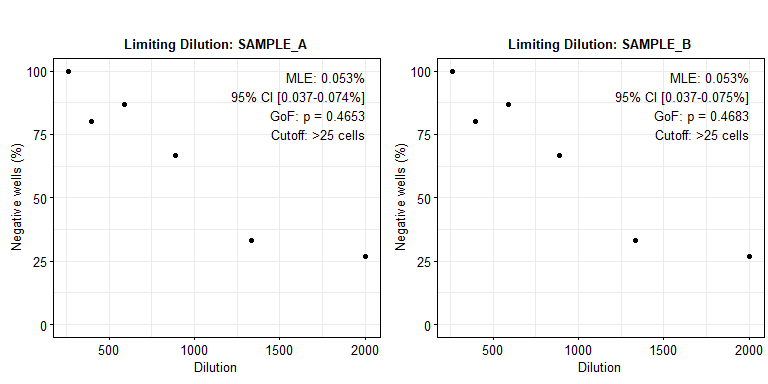
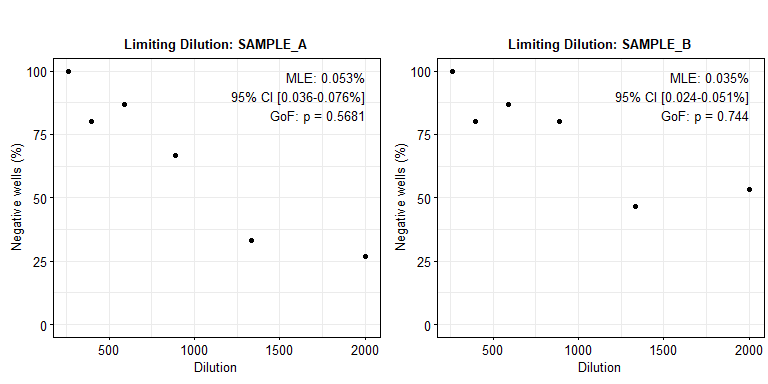
Support multiple cutoff values in dataframe column

diff --git a/README.md b/README.md
@@ -144,12 +144,18 @@ Use the `groupby` argument to specify the column containing the sample
 identifiers. Each sample will be tested individually. A plot will be
 generated for each sample.
 
+If you want to use different cutoff values for each sample, they can be
+included in a column in the data frame. Instead of providing a numeric
+value for argument `cutoff`, provide a character column name.
+
 ``` r
 df1 <- read.csv(fn)
 df1[["sample"]] <- "SAMPLE_A"
+df1[["cutoff"]] <- 25
 
 df2 <- read.csv(fn)
 df2[["sample"]] <- "SAMPLE_B"
+df2[["cutoff"]] <- 50
 
 df <- dplyr::bind_rows(df1,df2)
 
@@ -157,7 +163,7 @@ results <- getMLE(df,
                   counts = "count", 
                   dilutions = "dilution", 
                   groupby = "sample",
-                  cutoff = 25)
+                  cutoff = "cutoff")
 ```
 
     ## Calculating MLE for SAMPLE_A...
